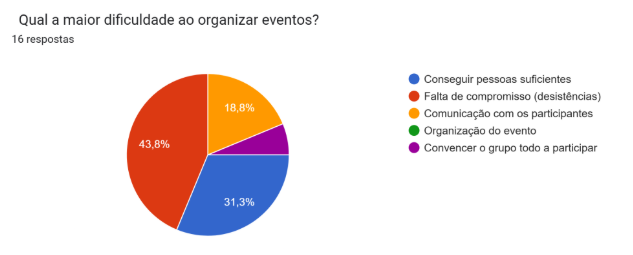
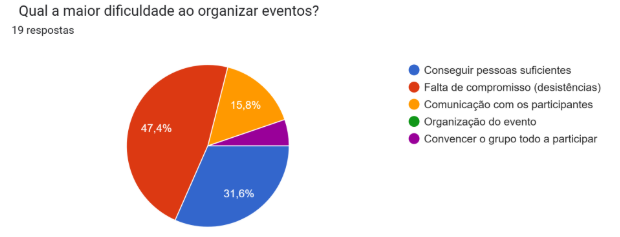
doc: add more informations

diff --git a/README.md b/README.md
@@ -45,15 +45,21 @@ Com isso, o projeto não se limita a um desafio técnico, mas busca atender a um
 
 ## 1.2 Origem da Demanda e Evidências
 
-A fim de validar a relevância do projeto e descobrir as dores latentes do projeto, foi conduzida uma pesquisa, via formulário eletrônico, para identificar lacunas na criação de eventos informais entre amigos, colegas e entre pessoas desconhecidas.
+A fim de validar a relevância do projeto e descobrir as dores latentes, foi conduzida uma pesquisa, via formulário eletrônico, para identificar lacunas na criação de eventos informais entre amigos, colegas e entre pessoas desconhecidas.
 
 A pesquisa continha perguntas sobre como era a dificuldade do entrevistado em criar e participar de eventos, sendo por meios externos ou pessoais, e como um sistema iria ajudar a diminuir ou amenizar esse problema.
 
-Ao todo, 16 (dezesseis) pessoas responderam ao formulário. Os resultados, como mostra a imagem abaixo, indicam que as principais dificuldades estão relacionadas à desistência de participantes (43,8%) e à dificuldade de atingir o número mínimo de pessoas necessárias para a realização do evento (31,3%).
+Ao todo, 19 (dezenove) pessoas responderam ao formulário. Os resultados, como mostra a imagem abaixo, indicam que as principais dificuldades estão relacionadas à desistência de participantes (47,4%) e à dificuldade de atingir o número mínimo de pessoas necessárias para a realização do evento (31,6%).
 
 <img src="img_readme/spreadsheet_problems.png" alt="Maiores dificuldades ao organizar eventos">
 
 IMAGEM 02 - GRÁFICO MOSTRANDO AS MAIORES DIFICULDADES AO ORGANIZAR EVENTOS 
+
+Além disso, a pesquisa demonstra que existe um possível interesse de uso da plataforma pelos usuários, onde 78,9% dos entrevistados responderam que usariam o novo sistema proposto.
+
+<img src="img_readme/spreadsheet_use.png" alt="Usaria esse sistema">
+
+IMAGEM 03 - GRÁFICO MOSTRANDO COMO SÃO MARCADOS OS EVENTOS ATUALMENTE
 
 Esses dados evidenciam que há uma dor recorrente na organização de eventos informais, especialmente no que diz respeito à previsibilidade de participação e à formação de grupos. Tais dificuldades reforçam a necessidade de uma solução que facilite a descoberta de participantes e aumente o engajamento, validando a proposta do projeto.
 
@@ -64,6 +70,8 @@ Esses dados evidenciam que há uma dor recorrente na organização de eventos in
 O Meetup é uma plataforma voltada à criação e participação em eventos baseados em interesses em comum, organizados principalmente por grupos temáticos. Seu principal objetivo é promover conexões sociais e profissionais por meio de encontros presenciais ou online.
 
 <img src="img_readme/meetup_img.png" alt="Print da plataforma Meetup">
+
+IMAGEM 04 - IMAGEM DA PLATAFORMA "MEETUP"
 
 Link: https://www.meetup.com/pt-BR/
 
@@ -82,6 +90,8 @@ O Eventbrite é uma plataforma voltada à criação, gestão e comercialização
 
 <img src="img_readme/eventbrite_img.png" alt="Print da plataforma Eventbrite">
 
+IMAGEM 05 - IMAGEM DA PLATAFORMA "Eventbrite"
+
 Link: https://www.eventbrite.com.br/
 
 **Público-alvo**: 
@@ -99,6 +109,8 @@ Participantes em busca de eventos e organizadores de eventos que buscam criar, d
 O Fubles é uma plataforma voltada à organização de partidas informais de futebol, permitindo a criação de jogos e a participação aberta de jogadores para completar equipes. A solução atende diretamente ao problema de formação de grupos em atividades esportivas, porém é limitada a um nicho específico, não contemplando outros tipos de eventos sociais.
 
 <img src="img_readme/fubles_img.png" alt="Print da plataforma Fubles">
+
+IMAGEM 05 - IMAGEM DA PLATAFORMA "Fubles"
 
 Link: https://www.fubles.com/pt/
 
